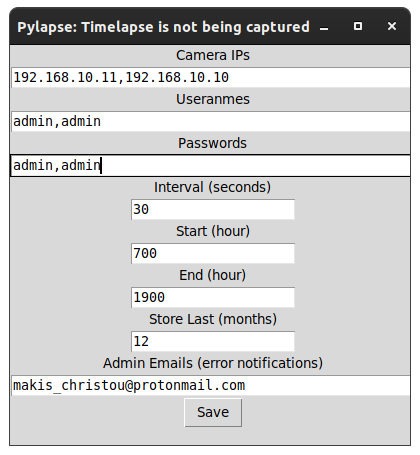
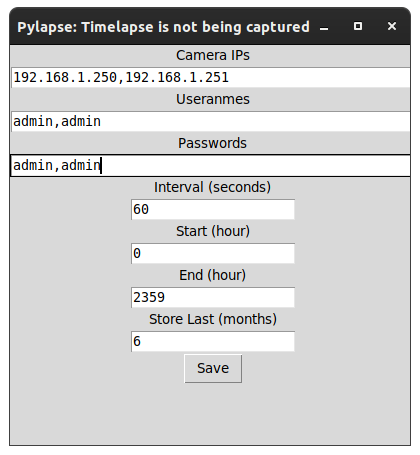
Completely removed email feature

diff --git a/pylapse.py b/pylapse.py
@@ -26,7 +26,6 @@ import base64
 import timeit
 import re
 from datetime import timedelta
-import hashlib
 
 root = tk.Tk()
 root.title("Pylapse")
@@ -46,7 +45,6 @@ ips = [] # Filled in loadTimelapseSettings()
 usernames = [] # Filled in loadTimelapseSettings()
 passwords = [] # Filled in loadTimelapseSettings()
 cameras = [] # Filled in loadTimelapseSettings()
-emails = [] # Filled in loadTimelapseSettings()
 
 camera_ips = "" # Filled either in readTimelapseSettings() or saveTimelapseSettings()
 camera_usernames = "" # Filled either in readTimelapseSettings() or saveTimelapseSettings()
@@ -55,7 +53,6 @@ camera_interval = "" # Filled either in readTimelapseSettings() or saveTimelapse
 camera_start_hour = "" # Filled either in readTimelapseSettings() or saveTimelapseSettings()
 camera_end_hour = "" # Filled either in readTimelapseSettings() or saveTimelapseSettings()
 camera_store_last = "" # Filled either in readTimelapseSettings() or saveTimelapseSettings()
-camera_error_emails = "" # Filled either in readTimelapseSettings() or saveTimelapseSettings()
 
 current_playback_image = 0
 
@@ -65,20 +62,6 @@ rendering_process = None
 # Declare as global variable
 log_file = None
 
-# Stolen from Geeksforgeeks
-def checkEmail(email_address):
-    regex = r'\b[A-Za-z0-9._%+-]+@[A-Za-z0-9.-]+\.[A-Z|a-z]{2,}\b'
-
-    # pass the regular expression
-    # and the string into the fullmatch() method
-    if(re.fullmatch(regex, email_address)):
-        print(str(datetime.datetime.now()), "Valid Email: " + email_address)
-        return 0
- 
-    else:
-        print(str(datetime.datetime.now()), "Invalid Email:" + email_address)
-        messagebox.showerror("Error", "Invalid Email:" + email_address)
-        return 1
 
 def kill_process(name):
      
@@ -124,7 +107,6 @@ def writeTimelapseSettings():
     global camera_start_hour
     global camera_end_hour
     global camera_store_last
-    global camera_error_emails
 
     # Remove whitespace from strings
     camera_ips = re.sub(r"\s+", "", camera_ips, flags=re.UNICODE)
@@ -134,7 +116,6 @@ def writeTimelapseSettings():
     camera_start_hour = re.sub(r"\s+", "", camera_start_hour, flags=re.UNICODE)
     camera_end_hour = re.sub(r"\s+", "", camera_end_hour, flags=re.UNICODE)
     camera_store_last = re.sub(r"\s+", "", camera_store_last, flags=re.UNICODE)
-    camera_error_emails = re.sub(r"\s+", "", camera_error_emails, flags=re.UNICODE)
 
 
     print(str(datetime.datetime.now()), "loadTimelapseSettings()")
@@ -145,7 +126,6 @@ def writeTimelapseSettings():
     print(str(datetime.datetime.now()), camera_start_hour)
     print(str(datetime.datetime.now()), camera_end_hour)
     print(str(datetime.datetime.now()), camera_store_last)
-    print(str(datetime.datetime.now()), camera_error_emails)
 
 
     # Check if empty variables
@@ -185,7 +165,6 @@ def writeTimelapseSettings():
         encrypted_camera_start_hour = trivial_encrypt(camera_start_hour)
         encrypted_camera_end_hour = trivial_encrypt(camera_end_hour)
         encrypted_camera_store_last = trivial_encrypt(camera_store_last)
-        encrypted_camera_error_emails = trivial_encrypt(camera_error_emails)
     except Exception as e:
         print(str(datetime.datetime.now()), "Cannot encrypt timelapse settings")
         messagebox.showerror("Error", "Cannot encrypt timelapse settings")
@@ -200,7 +179,6 @@ def writeTimelapseSettings():
     timelapse_settings_file.write(encrypted_camera_start_hour+"\n")
     timelapse_settings_file.write(encrypted_camera_end_hour+"\n")
     timelapse_settings_file.write(encrypted_camera_store_last+"\n")
-    timelapse_settings_file.write(encrypted_camera_error_emails+"\n")
     timelapse_settings_file.close()
 
 # Base64 decode
@@ -227,13 +205,11 @@ def loadTimelapseSettings():
     global camera_start_hour
     global camera_end_hour
     global camera_store_last
-    global camera_error_emails
 
     global ips
     global usernames
     global passwords
     global cameras
-    global emails
 
     # Remove whitespace from strings
     camera_ips = re.sub(r"\s+", "", camera_ips, flags=re.UNICODE)
@@ -243,7 +219,6 @@ def loadTimelapseSettings():
     camera_start_hour = re.sub(r"\s+", "", camera_start_hour, flags=re.UNICODE)
     camera_end_hour = re.sub(r"\s+", "", camera_end_hour, flags=re.UNICODE)
     camera_store_last = re.sub(r"\s+", "", camera_store_last, flags=re.UNICODE)
-    camera_error_emails = re.sub(r"\s+", "", camera_error_emails, flags=re.UNICODE)   
 
     print(str(datetime.datetime.now()), "loadTimelapseSettings()")
     print(str(datetime.datetime.now()), camera_ips)
@@ -253,10 +228,10 @@ def loadTimelapseSettings():
     print(str(datetime.datetime.now()), camera_start_hour)
     print(str(datetime.datetime.now()), camera_end_hour)
     print(str(datetime.datetime.now()), camera_store_last)
-    print(str(datetime.datetime.now()), camera_error_emails)
+
 
     # Check if empty variables
-    if not camera_interval or not camera_usernames or not camera_passwords or not camera_ips or not camera_start_hour or not camera_end_hour or not camera_store_last or not camera_error_emails:
+    if not camera_interval or not camera_usernames or not camera_passwords or not camera_ips or not camera_start_hour or not camera_end_hour or not camera_store_last:
         print(str(datetime.datetime.now()), "Some variables are empty")
         messagebox.showerror("Error", "Wrong timelapse_settings.txt format")
         return 1
@@ -326,7 +301,6 @@ def loadTimelapseSettings():
     usernames.clear()
     passwords.clear()
     cameras.clear()
-    emails.clear()
 
     # Construct ips global list
     temp = ""
@@ -364,22 +338,6 @@ def loadTimelapseSettings():
             temp+=char
     passwords.append(temp)
 
-    # Construct emails global list
-    temp = ""
-    for char in camera_error_emails:
-        if char == ",":
-            print(str(datetime.datetime.now()), "Yes")
-        if char == ',':
-            emails.append(temp)
-            temp = ""
-        if char != ",":
-            temp+=char
-    emails.append(temp)
-
-
-    for email in emails:
-        checkEmail(email)
-
 
     for i in range(len(ips)):
         cameras.append(i)
@@ -399,7 +357,6 @@ def readTimelapseSettings():
     global camera_start_hour
     global camera_end_hour
     global camera_store_last
-    global camera_error_emails
 
 
     if file_exists:
@@ -412,7 +369,6 @@ def readTimelapseSettings():
         camera_start_hour = lines[4]
         camera_end_hour = lines[5]
         camera_store_last = lines[6]
-        camera_error_emails = lines[7]
 
 
         # Decrypt Passwords
@@ -424,7 +380,6 @@ def readTimelapseSettings():
             camera_start_hour = trivial_decrypt(camera_start_hour)
             camera_end_hour = trivial_decrypt(camera_end_hour)
             camera_store_last = trivial_decrypt(camera_store_last)
-            camera_error_emails = trivial_decrypt(camera_error_emails)
         except Exception as e:
             print(str(datetime.datetime.now()), "Cannot decrypt timelapse settings")
             messagebox.showerror("Error", "Cannot decrypt timelapse settings")
@@ -433,7 +388,7 @@ def readTimelapseSettings():
 
 
         # Check if variables are empty
-        if len(lines) != 8:
+        if len(lines) != 7:
             messagebox.showerror("Error", "Wrong timelapse_settings.txt format")
             return 1
 
@@ -484,7 +439,7 @@ def timelapseSettings():
         global camera_start_hour
         global camera_end_hour
         global camera_store_last
-        global camera_error_emails
+
 
 
         # Get data from text boxes
@@ -495,7 +450,6 @@ def timelapseSettings():
         camera_start_hour = startHourInputText.get(1.0, "end-1c")
         camera_end_hour = endHourInputText.get(1.0, "end-1c")
         camera_store_last = storeLastInputText.get(1.0, "end-1c")
-        camera_error_emails = errorEmailInputText.get(1.0, "end-1c")
 
 
         # Remove whitespace from strings
@@ -506,7 +460,6 @@ def timelapseSettings():
         camera_start_hour = re.sub(r"\s+", "", camera_start_hour, flags=re.UNICODE)
         camera_end_hour = re.sub(r"\s+", "", camera_end_hour, flags=re.UNICODE)
         camera_store_last = re.sub(r"\s+", "", camera_store_last, flags=re.UNICODE)
-        camera_error_emails = re.sub(r"\s+", "", camera_error_emails, flags=re.UNICODE)
 
 
         print(str(datetime.datetime.now()), "SaveTimelapseSettings()")
@@ -517,7 +470,6 @@ def timelapseSettings():
         print(str(datetime.datetime.now()), camera_start_hour)
         print(str(datetime.datetime.now()), camera_end_hour)
         print(str(datetime.datetime.now()), camera_store_last)
-        print(str(datetime.datetime.now()), camera_error_emails)
 
 
         # List data structures are filled, don't bother saving incorrect stuff
@@ -542,7 +494,6 @@ def timelapseSettings():
                 encrypted_camera_start_hour = trivial_encrypt(camera_start_hour)
                 encrypted_camera_end_hour = trivial_encrypt(camera_end_hour)
                 encrypted_camera_store_last = trivial_encrypt(camera_store_last)
-                encrypted_camera_error_emails = trivial_encrypt(camera_error_emails)
 
             except Exception as e:
                 print(str(datetime.datetime.now()), "Cannot encrypt timelapse settings")
@@ -559,7 +510,6 @@ def timelapseSettings():
             timelapse_settings_file.write(encrypted_camera_start_hour+"\n")
             timelapse_settings_file.write(encrypted_camera_end_hour+"\n")
             timelapse_settings_file.write(encrypted_camera_store_last+"\n")
-            timelapse_settings_file.write(encrypted_camera_error_emails+"\n")
             timelapse_settings_file.close()
             print(str(datetime.datetime.now()), "New Settings ")
             print(str(datetime.datetime.now()), camera_interval)
@@ -569,7 +519,6 @@ def timelapseSettings():
             print(str(datetime.datetime.now()), camera_start_hour)
             print(str(datetime.datetime.now()), camera_end_hour)
             print(str(datetime.datetime.now()), camera_store_last)
-            print(str(datetime.datetime.now()), camera_error_emails)
             print(str(datetime.datetime.now()), "Saved in file ")
             print(str(datetime.datetime.now()), encrypted_camera_interval)
             print(str(datetime.datetime.now()), encrypted_camera_ips)
@@ -578,7 +527,6 @@ def timelapseSettings():
             print(str(datetime.datetime.now()), encrypted_camera_start_hour)
             print(str(datetime.datetime.now()), encrypted_camera_end_hour)
             print(str(datetime.datetime.now()), encrypted_camera_store_last)
-            print(str(datetime.datetime.now()), encrypted_camera_error_emails)
             print(str(datetime.datetime.now()), "Saved timelapse settings")
             messagebox.showinfo("Success", "Saved timelapse settings")
             messagebox.showinfo("Success", "Restart program for settings to take full effect")
@@ -629,12 +577,6 @@ def timelapseSettings():
     storeLastInputText = tk.Text(popup, height = 1, width = 20) 
     storeLastInputText.grid(row=14,column=0)
     storeLastInputText.insert(END,camera_store_last)
-
-
-    tk.Label(popup, text="Admin Emails (error notifications)").grid(row=15,column=0)
-    errorEmailInputText = tk.Text(popup, height = 1, width = 50) 
-    errorEmailInputText.grid(row=16,column=0)
-    errorEmailInputText.insert(END,camera_error_emails)
 
 
 
@@ -945,7 +887,6 @@ def startTimelapse():
     global camera_start_hour
     global camera_end_hour
     global camera_store_last
-    global camera_error_emails
 
     # Remove .stop if it exists
     file_exists = os.path.exists(".stop")
@@ -1620,8 +1561,6 @@ def deletePicturesThread():
 # Checks if pictures are being captured
 def timelapseErrorThread():
 
-    global emails
-
     latest_picture_timestamps = []
 
     for i in cameras:
@@ -1648,9 +1587,8 @@ def timelapseErrorThread():
                     current_camera_hour = now.strftime("%H%M")
                     print(str(datetime.datetime.now())," Current Time =", current_camera_hour)
 
-
                     if (alphabetic_pictures[-1] == latest_picture_timestamps[i]) and (latest_picture_timestamps[i] != 0) and (int(current_camera_hour) < int(camera_end_hour)) and (int(current_camera_hour) > int(camera_start_hour)):
-                        
+
                         print(str(datetime.datetime.now()),"Timelape pictures are not being captured from camera"+str(i))
                         messagebox.showerror("Error","Timelape pictures are not being captured from camera"+str(i))
                         sleep(int(camera_interval)*2)

diff --git a/README.md b/README.md
@@ -28,8 +28,19 @@ pip install requests
 pip install --upgrade psutil
 ```
 
-
 ## Running 
-
 `python3 pylapse.py`
+
+## Setting Up
+
+Navigate to the Timelapse and then Settings Menu option. When clicking on it a new window wil appear that looks like so:
+
+<img width="500" src="Screenshots/_001.png">
+
+Fill in the information that is relevant to you e.g. you camera IPs (make sure they are static IPs such that they don't change), and their credentials. Make sure your settings are comma seperated and that all fields are populated as shown in the screenshot. Click Save and wait for Pylapse to make some nessesary checks. Note that if you have multiple cameras this may take a while since the code checks if every camera is reachable via RTSP.
+
+
+## Starting Timelapse
+To start capturing pictures it is as simple as navigating to the Timelapse and then Start Menu option. Again this step may take a while to repond since Pylapse checks again if every camera is reachable via RTSP. After that pictures will start being captured according to the chosen settings.
+
 
